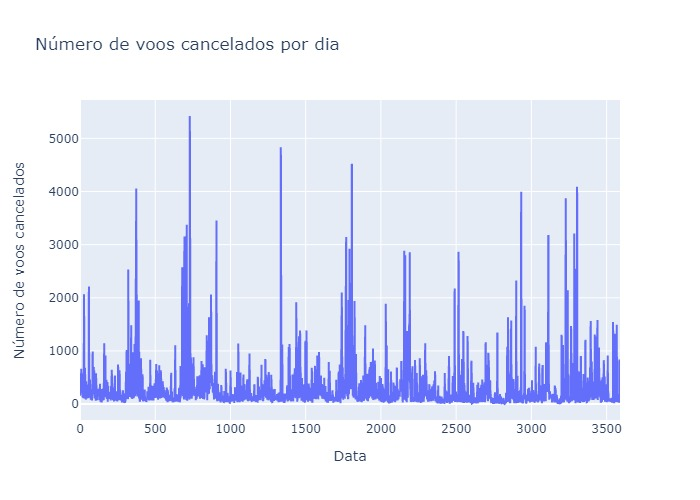
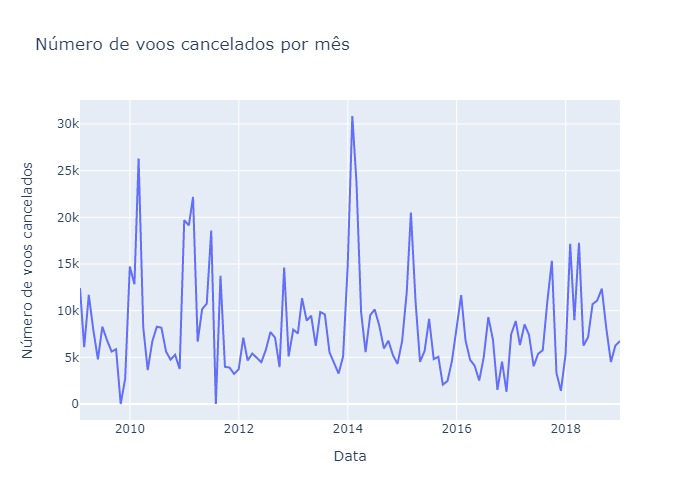
Changed from daily to monthly data

diff --git a/Code/ARIMA.py b/Code/ARIMA.py
@@ -14,7 +14,7 @@ import plotly.graph_objects as go
 def arima_model(series): # Funcão para achar os melhores parâmetros para o modelo de ARIMA
 
 
-    autoarima = pmd.auto_arima(series, trace = True, start_p = 1, start_q = 1,max_p = 4, max_q = 4, test = 'adf', d = 0, seasonal = True, start_P = 1, start_Q = 1, start_D = 0, m = 12, stepwise = False)
+    autoarima = pmd.auto_arima(series, trace = True, start_p = 1, start_q = 1,max_p = 5, max_q = 5, test = 'adf', d = 0, seasonal = True, start_P = 1, start_Q = 1, start_D = 0, m = 12, stepwise = False, max_P = 5, max_Q = 5)
     
     autoarima.fit(series)
 
@@ -25,12 +25,12 @@ def load_dataframe(name: str):
 
     if name == 'Flight':
 
-        dataframe = pd.read_csv(r"D:\TCC\Tese\Datasets\Flight_dataset_merged.csv", low_memory = False, sep = ';')
-        dataframe['FL_DATE'] = pd.to_datetime(dataframe['FL_DATE'], format = '%Y-%m-%d')
-        dataframe.set_index('FL_DATE', inplace = True)
-        dataframe = dataframe.groupby(pd.Grouper(freq = 'M')).agg(Num_cancelados = ('CANCELLED', 'sum'))
-        dataframe['Num_cancelados'] = pd.to_numeric(dataframe['Num_cancelados'], downcast = 'integer')
-        dataseries = dataframe['Num_cancelados']
+        dataframe = pd.read_csv(r"D:\TCC\Tese\Datasets\Flight_dataset_merged.csv", low_memory = False, sep = ';').groupby('FL_DATE').agg(Num_cancelados = ('CANCELLED','count'))
+        # dataframe['FL_DATE'] = pd.to_datetime(dataframe['FL_DATE'], format = '%Y-%m-%d')
+        # dataframe.set_index('FL_DATE', inplace = True)
+        # dataframe = dataframe.groupby(pd.Grouper(freq = 'M')).agg(Num_cancelados = ('CANCELLED', 'sum'))
+        # dataframe['Num_cancelados'] = pd.to_numeric(dataframe['Num_cancelados'], downcast = 'integer')
+        # dataseries = dataframe['Num_cancelados']
 
     elif name == 'Apple':
 
@@ -38,13 +38,15 @@ def load_dataframe(name: str):
 
         dataseries = dataframe['Close']
         
-    return(dataseries)
+    return(dataframe)
 
 dataset_name = 'Flight' # Determina qual conjunto de dados iremos usar
 
 data_series = load_dataframe(dataset_name)
 
-train_data = data_series[:math.floor(len(data_series)*0.8)] # Divisão dos dados em partes para treinamento
+display(data_series)
+
+train_data = data_series[:math.floor(len(data_series)*0.8)+1] # Divisão dos dados em partes para treinamento
 
 test_data = data_series[math.floor(len(data_series)*0.8):] # Parte dos dados para testar o modelo
 

diff --git a/Code/Time_series_visualization.py b/Code/Time_series_visualization.py
@@ -50,9 +50,8 @@ def plot_stock_prices(diff : bool, auc : bool): # Recebe um booleano para decidi
 
 	fig.update_layout({"title": 'Preço das ações da Apple ao fechar a bolsa', "xaxis" :{"title":"Data"}, "yaxis": {'title' :'Preço de fechamento'}})
 
-	fig.write_image(fr"C:\Users\GuilhermeTakata\Documents\Tese2021\Graphs and Images\AAPL_dataset_{suffix}.jpeg")
+	fig.write_image(fr"C:\Users\GuilhermeTakata\Documents\Tese2021\Graphs and Images\AAPL_dataset_{suffix}.png" , width = 1600, format = 'png', height = 900 )
 
-	fig.show()
 
 	return()
 
@@ -98,11 +97,10 @@ def plot_flight_database(diff : bool, auc : bool):
 
 	fig = go.Figure(data = go.Scatter(x = dataframe.index, y = dataframe['Num_cancelados']))
 
-	fig.update_layout({"title": 'Número de voos cancelados por dia', "xaxis" :{"title":"Data"}, "yaxis": {'title' :'Número de voos cancelados'}})
+	fig.update_layout({"title": 'Número de voos cancelados por mês', "xaxis" :{"title":"Data"}, "yaxis": {'title' :'Número de voos cancelados'}})
 
-	fig.write_image(fr"C:\Users\GuilhermeTakata\Documents\Tese2021\Graphs and Images\Flight_dataset_{suffix}.jpeg")
+	fig.write_image(fr"C:\Users\GuilhermeTakata\Documents\Tese2021\Graphs and Images\Flight_dataset_{suffix}.png", width = 1600, format = 'png', height = 900 )
 
-	fig.show()
 	
 
 
@@ -132,4 +130,4 @@ def plot_Collatz(x0: Int, diff: Int, auc: Int):
 #--------------------#--------------------#--------------------#--------------------#--------------------#--------------------#--------------------#--------------------#--------------------#
 
 plot_flight_database(False, False)
-
+plot_stock_prices(False, False)
